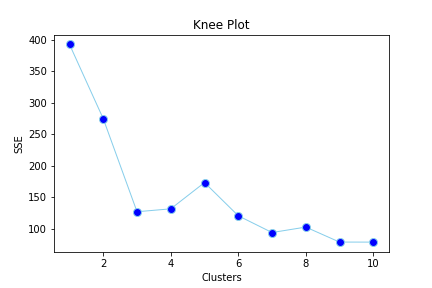
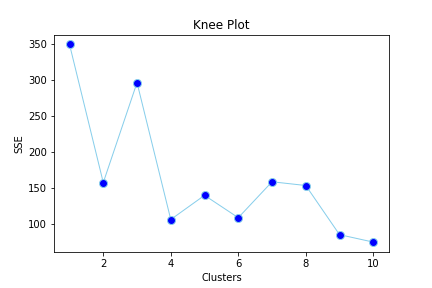
save

diff --git a/CS171assn3.py b/CS171assn3.py
@@ -87,15 +87,18 @@ def getCentroid(df_centroids,df_Xinput,list_clusterAssign):
      #returns a list of cluster assignments where 
      #index maps to df_Xinput 
 #   centroid in invertainly changes value
-def k_means(df_Xinput, int_k,df_centroids,max_iter):
-  
- 
+def k_means(df_Xinput, int_k,df_centroids):
+   
   #this is a (data point x 1) vector 
   list_clustAssign=[]
-  
+  list_clustAssignPrev=[]
 # Repeat until nothing is moved around, or some max iteration
-  for iteration in range(max_iter):
+  while(True):
     list_clustAssign=assignClassification(df_centroids,df_Xinput)
+    if(list_clustAssign==list_clustAssignPrev):
+        break
+    else:
+      list_clustAssignPrev=list_clustAssign.copy()
     df_centroids=getCentroid(df_centroids,df_Xinput,list_clustAssign)
   return list_clustAssign
 
@@ -145,7 +148,7 @@ def k_meansKneePlot(df_data):
    df=df_data.copy()
    X_input = df_data.iloc[:,:-1].copy()
    centroid= X_input.iloc[0:k,:].copy()
-   cAssign=k_means(X_input, k,centroid,max_iter=10)
+   cAssign=k_means(X_input, k,centroid)
    df.iloc[:,-1]=cAssign
    catch=computeSSE(centroid,df)
    y.append(catch)
@@ -157,19 +160,29 @@ def k_meansKneePlot(df_data):
  plt.xlabel('Clusters')
  plt.savefig('Knee Plot')
  return
+def kmeanspp(df_Xinput, K):
+    df_centroids=[]
+    return df_centroids
 def k_meansErrorBarsPlot(df_data,max_iter):
  x=[]
  y=[]
  for k in range(1,11):
-   df_data = df_data.sample(frac=1).reset_index(drop=True)
-   df=df_data.copy()
-   X_input = df_data.iloc[:,:-1].copy()
-   centroid= X_input.iloc[0:k,:].copy()
-   cAssign=k_means(X_input, k,centroid)
-   df.iloc[:,-1]=cAssign
-   catch=computeSSE(centroid,df)
-   y.append(catch)
-   x.append(k)
+  list_SSE_k=[]
+  for iter in range(max_iter):
+    df_data = df_data.sample(frac=1).reset_index(drop=True)
+    df=df_data.copy()
+    X_input = df_data.iloc[:,:-1].copy()
+    centroid= X_input.iloc[0:k,:].copy()
+    list_cAssign=k_means(X_input, k,centroid)
+    df.iloc[:,-1]=list_cAssign
+    catch=computeSSE(centroid,df)
+    list_SSE_k.append(catch)
+    #for each value K you are going to run the algorithm for  max_iter times and record 
+    #the mean and standard deviation for the sum of squares of errors
+    #for a given K.
+    mean=list_SSE_k
+    y.append(catch)
+    x.append(k)
  plt.scatter(x,y)  
  plt.plot( x,y, marker='o', markerfacecolor='blue', markersize=8, color='skyblue', linewidth=1)
  plt.title('Knee Plot')
@@ -189,7 +202,7 @@ def k_meansErrorBarsPlot(df_data,max_iter):
  #----------- Question 2.1: k-Means Knee Plot ----------
  data=pd.read_csv('IrisDataSet.csv') 
  k_meansKneePlot(data)
-
+ 
   #----------- Question 2.2: Sensitivity analysis ----------    
  """repeat the knee plot of sub-question 1, but now, for each value
  of K you are going to run the algorithm for  max_iter times and record 
@@ -199,3 +212,12 @@ def k_meansErrorBarsPlot(df_data,max_iter):
  (the mean) with error-bars (defined by the standard deviation)"""
  """Create 3 such knee plots for max_iter = 2 ,max_iter = 10 ,max_iter = 100 ."""
   
+ k_meansErrorBarsPlot(df_data,max_iter=2)
+ k_meansErrorBarsPlot(df_data,max_iter=10)
+ k_meansErrorBarsPlot(df_data,max_iter=100)
+ 
+ 
+#-----------  Question 3: K-Means++ Initialization  ----------
+ 
+ 
+ 
